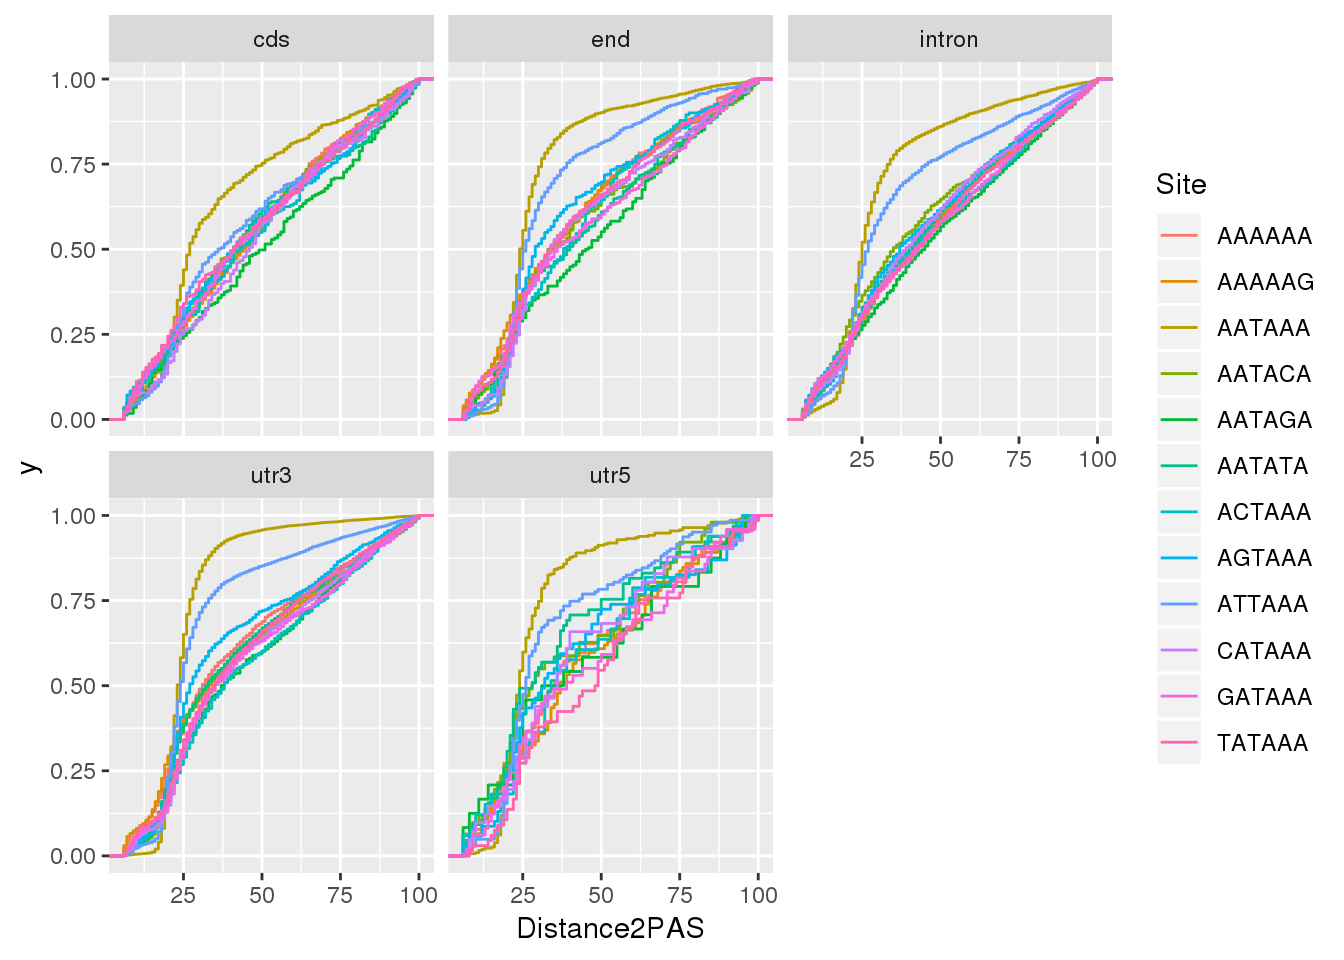
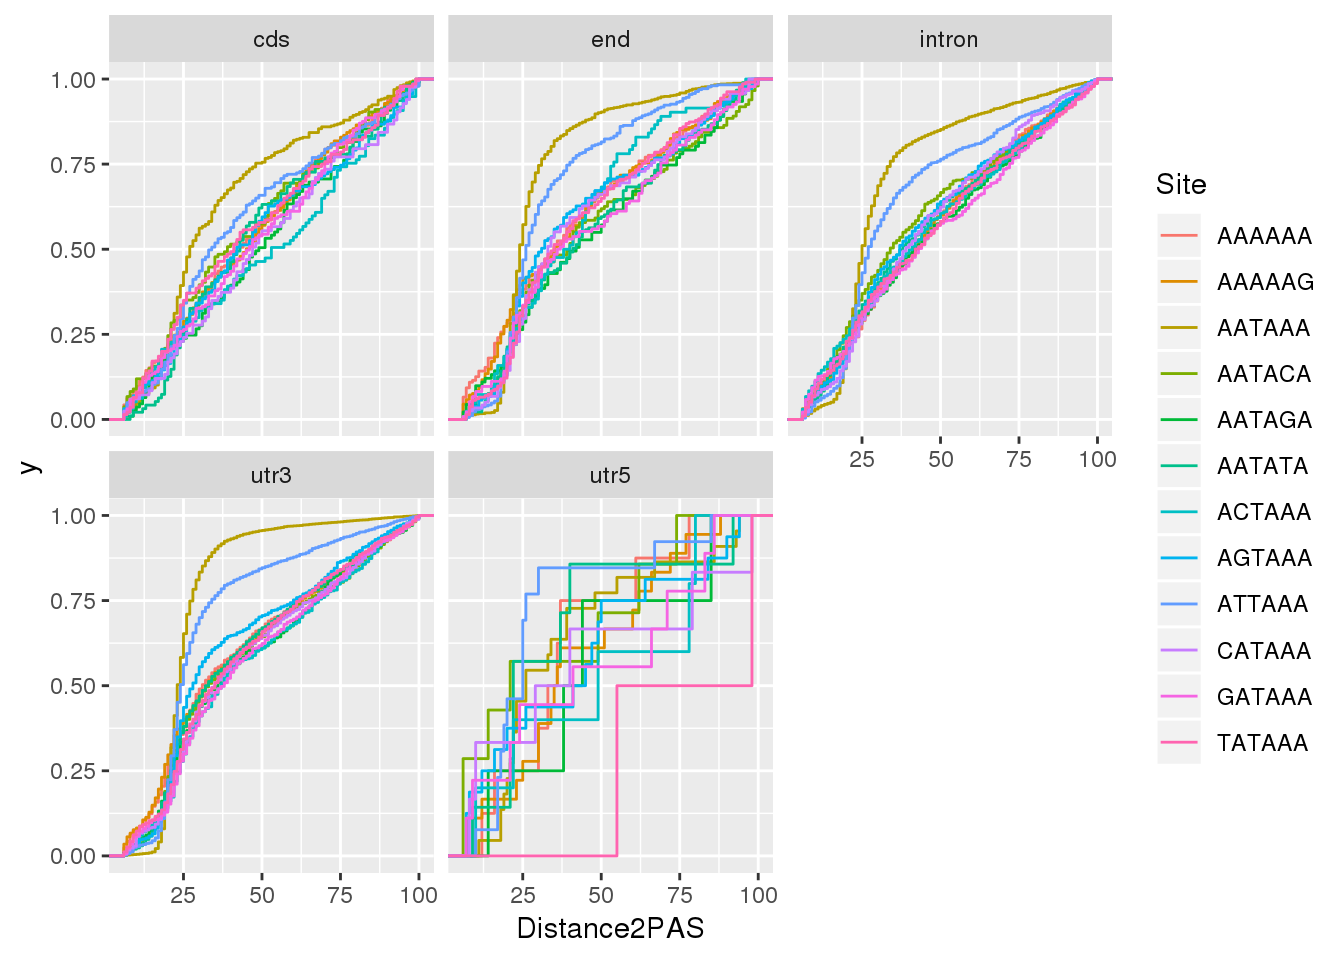
Build site.

diff --git a/docs/signalsiteanalysis.html b/docs/signalsiteanalysis.html
@@ -422,10 +422,10 @@ This reproducible <a href="http://rmarkdown.rstudio.com">R Markdown</a> analysis
 <div class="panel panel-default">
 <div class="panel-heading">
 <p class="panel-title">
-<a data-toggle="collapse" data-parent="#workflowr-checks" href="#strongRepositoryversionstrongahrefhttpsgithubcombrimittlemanapaQTLtree76900e4e32fc58a0350f7a5c015513130e282169targetblank76900e4a"> <span class="glyphicon glyphicon-ok text-success" aria-hidden="true"></span> <strong>Repository version:</strong> <a href="https://github.com/brimittleman/apaQTL/tree/76900e4e32fc58a0350f7a5c015513130e282169" target="_blank">76900e4</a> </a>
+<a data-toggle="collapse" data-parent="#workflowr-checks" href="#strongRepositoryversionstrongahrefhttpsgithubcombrimittlemanapaQTLtree6dc25d8e060ad1f20dcc5a4a999919ca3a60020ftargetblank6dc25d8a"> <span class="glyphicon glyphicon-ok text-success" aria-hidden="true"></span> <strong>Repository version:</strong> <a href="https://github.com/brimittleman/apaQTL/tree/6dc25d8e060ad1f20dcc5a4a999919ca3a60020f" target="_blank">6dc25d8</a> </a>
 </p>
 </div>
[2 lines of base64/hex data omitted]
 <div class="panel-body">
 <p>
 Great! You are using Git for version control. Tracking code development and connecting the code version to the results is critical for reproducibility. The version displayed above was the version of the Git repository at the time these results were generated. <br><br> Note that you need to be careful to ensure that all relevant files for the analysis have been committed to Git prior to generating the results (you can use <code>wflow_publish</code> or <code>wflow_git_commit</code>). workflowr only checks the R Markdown file, but you know if there are other scripts or data files that it depends on. Below is the status of the Git repository when the results were generated:
@@ -463,6 +463,7 @@ Untracked files:
     Untracked:  code/._config2.yaml
     Untracked:  code/._configOLD.yaml
     Untracked:  code/._convertNumeric.py
+    Untracked:  code/._dag.pdf
     Untracked:  code/._filter5perc.R
     Untracked:  code/._filter5percPheno.py
     Untracked:  code/._filterpeaks.py
@@ -495,7 +496,9 @@ Untracked files:
     Untracked:  code/Upstream100Bases_general.py
     Untracked:  code/bam2bw.err
     Untracked:  code/bam2bw.out
-    Untracked:  code/chooseSignalSite.py
+    Untracked:  code/dag.pdf
+    Untracked:  code/dagPAS.pdf
+    Untracked:  code/dagfiltPAS.pdf
     Untracked:  code/get100upPAS.py
     Untracked:  code/getSeq100up.sh
     Untracked:  code/getseq100up.err
@@ -545,6 +548,7 @@ Untracked files:
 
 Unstaged changes:
     Deleted:    code/Upstream10Bases_general.py
+    Modified:   code/bed2saf.py
     Deleted:    code/test.txt
 
 </code></pre>
@@ -584,6 +588,40 @@ Message
 </tr>
 </thead>
 <tbody>
+<tr>
+<td>
+Rmd
+</td>
+<td>
+<a href="https://github.com/brimittleman/apaQTL/blob/6dc25d8e060ad1f20dcc5a4a999919ca3a60020f/analysis/signalsiteanalysis.Rmd" target="_blank">6dc25d8</a>
+</td>
+<td>
+brimittleman
+</td>
+<td>
+2019-04-24
+</td>
+<td>
+update after SAF bug
+</td>
+</tr>
+<tr>
+<td>
+html
+</td>
+<td>
+<a href="https://rawcdn.githack.com/brimittleman/apaQTL/26058a51a71a7c9b50dbe82fa4cdd72acf171c0a/docs/signalsiteanalysis.html" target="_blank">26058a5</a>
+</td>
+<td>
+brimittleman
+</td>
+<td>
+2019-04-24
+</td>
+<td>
+Build site.
+</td>
+</tr>
 <tr>
 <td>
 Rmd
@@ -759,17 +797,17 @@ brimittleman
 </table>
 </div>
 </div>
-<p><strong>Next plot: look at presence of signal site compared to PAS usage</strong></p>
 <p>Check to see if any PAS have more than one signal site detected:</p>
 <pre class="r"><code>AllsiteDFmultsites=AllsiteDF %&gt;% group_by(PAS) %&gt;% mutate(nSites=n()) %&gt;% filter(nSites&gt;1)</code></pre>
 <p>First take the perfect match within 50 bp then use the closest.</p>
 <p>Write out the AllSite in order to use it in the chooseSignalSite.py script:</p>
 <pre class="r"><code>write.table(AllsiteDF, file=&quot;../data/SignalSiteFiles/AllSignalSite.txt&quot;, quote=F, col.names = F, row.names = F, sep=&quot;\t&quot;)</code></pre>
+<pre class="bash"><code>python chooseSignalSite.py ../data/SignalSiteFiles/AllSignalSite.txt ../data/SignalSiteFiles/AllSignalSite_1perPAS.txt</code></pre>
 <pre class="r"><code>AllsiteDF_1per=read.table(file=&quot;../data/SignalSiteFiles/AllSignalSite_1perPAS.txt&quot;, col.names = colnames(AllsiteDF)) %&gt;% mutate(NegCount=-1*as.integer(as.character(Distance2PAS)))</code></pre>
 <p>Plot</p>
 <pre class="r"><code>dist2signalsiteplot=ggplot(AllsiteDF_1per, aes(group=Site, x=NegCount, fill=Site)) + geom_histogram(position=&quot;stack&quot;,bins=50 ) + labs(x=&quot;Distance from PAS&quot;, y=&quot;N annotated Sites&quot;, title=&quot;Location of annotated signal sites&quot;)
 dist2signalsiteplot</code></pre>
-<p><img src="figure/signalsiteanalysis.Rmd/unnamed-chunk-11-1.png" width="672" style="display: block; margin: auto;" /></p>
+<p><img src="figure/signalsiteanalysis.Rmd/unnamed-chunk-12-1.png" width="672" style="display: block; margin: auto;" /></p>
 <pre class="r"><code>ggsave(dist2signalsiteplot, file=&quot;../output/SignalSitePlot.png&quot;)</code></pre>
 <pre><code>Saving 7 x 5 in image</code></pre>
 <p>Seperate by location:</p>
@@ -777,10 +815,14 @@ dist2signalsiteplot</code></pre>
 <pre class="r"><code>dist2signalsiteplot_byloc=ggplot(AllsiteDF_1per_sep, aes(group=Site, x=NegCount, fill=Site)) + geom_histogram(position=&quot;stack&quot;,bins=50 ) + labs(x=&quot;Distance from PAS&quot;, y=&quot;N annotated Sites&quot;, title=&quot;Location of annotated signal sites&quot;) + facet_wrap(~Location)
 
 dist2signalsiteplot_byloc</code></pre>
-<p><img src="figure/signalsiteanalysis.Rmd/unnamed-chunk-13-1.png" width="672" style="display: block; margin: auto;" /></p>
+<p><img src="figure/signalsiteanalysis.Rmd/unnamed-chunk-14-1.png" width="672" style="display: block; margin: auto;" /></p>
 <pre class="r"><code>ggsave(dist2signalsiteplot_byloc, file=&quot;../output/SignalSitePlotbyLoc.png&quot;)</code></pre>
 <pre><code>Saving 7 x 5 in image</code></pre>
 <p>This analysis shows me that 35,323 of the 76,650 PAS have an annotated signal site. This is 46%.</p>
+<div id="signal-site-and-usage-relationship" class="section level2">
+<h2>Signal site and usage relationship</h2>
+<p><strong>Next plot: look at presence of signal site compared to PAS usage</strong></p>
+<p>I need to look at the mean usage and fraction it by if the peak has a signal site.</p>
 <br>
 <p>
 <button type="button" class="btn btn-default btn-workflowr btn-workflowr-sessioninfo" data-toggle="collapse" data-target="#workflowr-sessioninfo" style="display: block;">
@@ -826,6 +868,7 @@ loaded via a namespace (and not attached):
 [41] rvest_0.3.2      assertthat_0.2.0 colorspace_1.3-2 labeling_0.3    
 [45] stringi_1.2.4    lazyeval_0.2.1   munsell_0.5.0    broom_0.5.1     
 [49] crayon_1.3.4    </code></pre>
+</div>
 </div>
 
 
